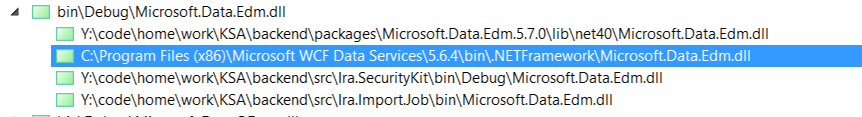
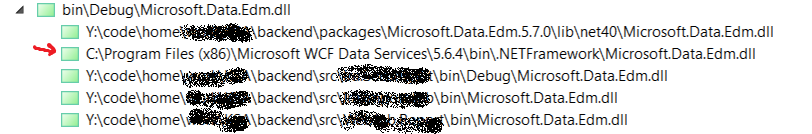
finish up the post

diff --git a/_posts/2016-12-24-msbuild-investigation.md b/_posts/2016-12-24-msbuild-investigation.md
@@ -1,0 +1,59 @@
+---
+layout: post
+title: Investigating unexpected
+image: /images/code-for-reviewer/matrix.png
+---
+
+Recently I took latest changes from git, merged `dev` to my current branch and decided to run few integration tests. You know, just to be sure.
+
+What do I see? well... this.
+
+>Could not load file or assembly '`Microsoft.Data.Edm, Version=5.6.4.0, Culture=neutral, PublicKeyToken=...` or one of its dependencies.
+
+That doesn't sound right, though it's typically easy to fix. 
+
+The first reaction is to consolidate NuGet packages in my Solution. All the installed packages have same version `5.7.0` though.
+
+![Package.config sample](/images/2016-12-msbuild-investigation/installed-package-version.png)
+
+Well, that happens when a merge conflict was poorly resolved. Perhaps one of the project files has a reference to an old version. 
+
+Full-text search shows that each `.csproj` file has correct path in the `<Reference>` tag. 
+
+Curiouser and curiouser!
+
+dotPeek confirmed that the `Microsoft.Data.Edm.dll` version in the `\bin` folder is indeed incorrect. That's odd because I don't have an old version anywhere close to my solution. So where does it come from?
+
+Reading raw MSBuild logs is some kind of an art, so this is where [MSBuildStructuredLog](https://github.com/KirillOsenkov/MSBuildStructuredLog) comes to the rescue. 
+
+Make sure to add it to your toolbelt! This is a very handy tool for MSBuild logs analysis.
+
+Let's run a verbose build and look at the log. The log is very detailed, however, I think that DoubleWrites section a good starting point.
+
+And here we go: `Microsoft.Data.Edm` is initially taken from local `packages` folder and after that suddenly overwritten by the wrong version from my `.NETFramework` folder.
+
+![MSBuild log](/images/2016-12-msbuild-investigation/msbuild-log-double-writes.png)
+
+Still not clear why.
+
+Luckily we can search through the logs. We're interested in resolve messages here: 
+
+`Resolved file path is "C:\Program Files (x86)\Microsoft WCF Data Services\`
+
+![Search](/images/2016-12-msbuild-investigation/msbuild-log-dll-resolved-overview.png)
+
+This is our "Ahaaa" moment! As you can see on a screenshot above while building project 1 (see the red number, eh?) ResolveAssemblyReferences target picks up a wrong version of that DLL which is required by project 2.
+
+Project 1 has a reference to project 2, and indeed has no references to `Microsoft.Data.Edm` dll. 
+
+![VS Project References](/images/2016-12-msbuild-investigation/project-references.png)
+
+And now it's somewhat clear what's going on. On the screenshot below we can see a part of the build log, where unimportant log entries were omitted. First occurrences of project 1 and project 2 are marked on the screenshot.
+
+![MSbuild log. Overview](/images/2016-12-msbuild-investigation/msbuild-log-build-order.png)
+
+It seems that MSBuild failed to resolve a path to `Microsoft.Data.Edm` while preparing project 2, and that's why an old version was used for project 1. However, project 2 has all the references configured correctly. 
+Once the incorrect DLL version was resolved it's beeing used for all remain projects.
+
+I'm not sure if that's an expected behavior. To be honest I'm a bit confused here. At least as a temporary solution I can add `Edm` package to project 1. That will fix my problem for now.
+ 
